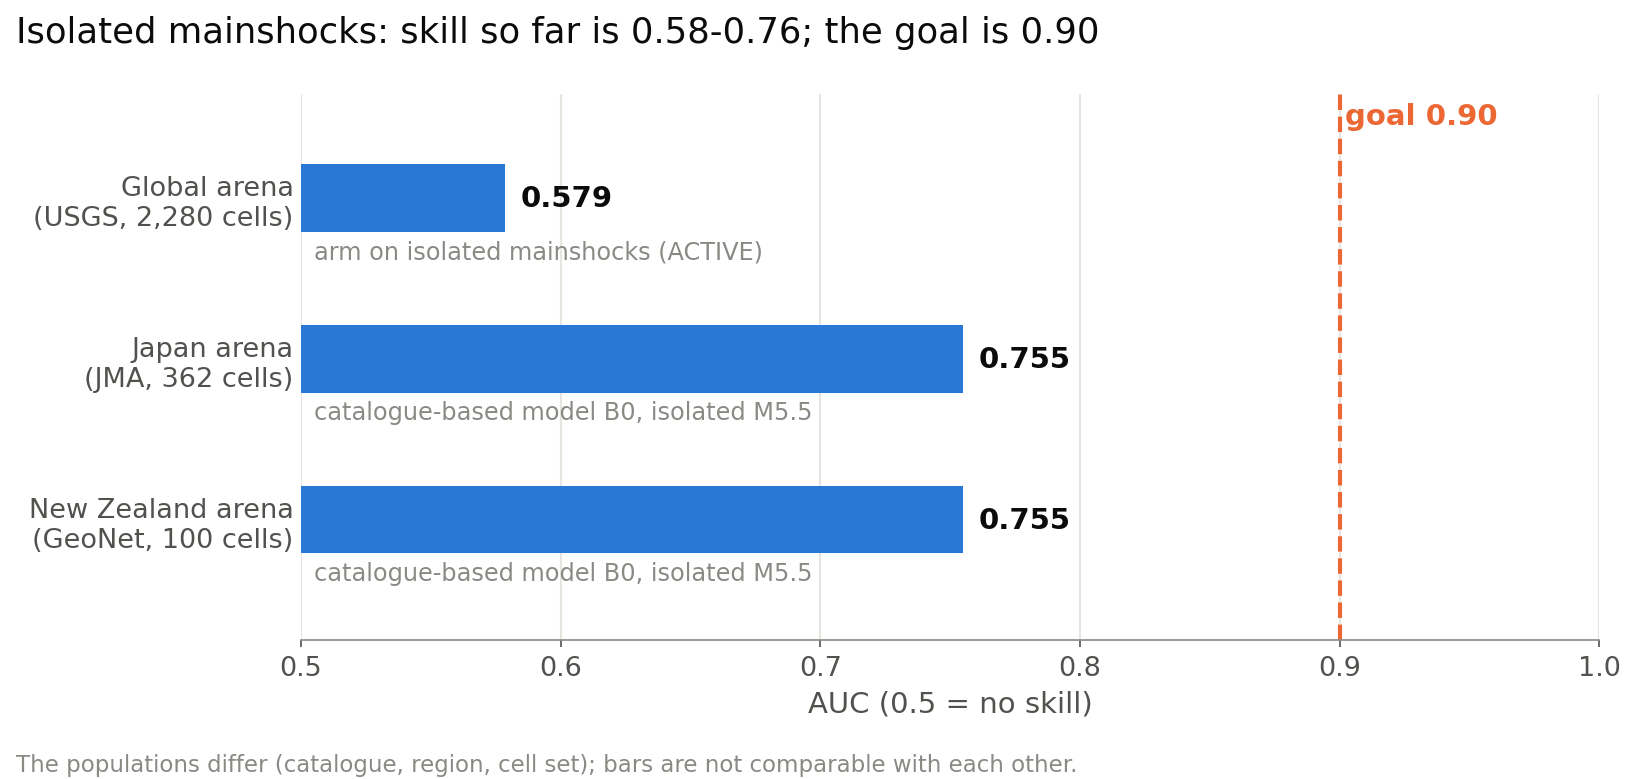
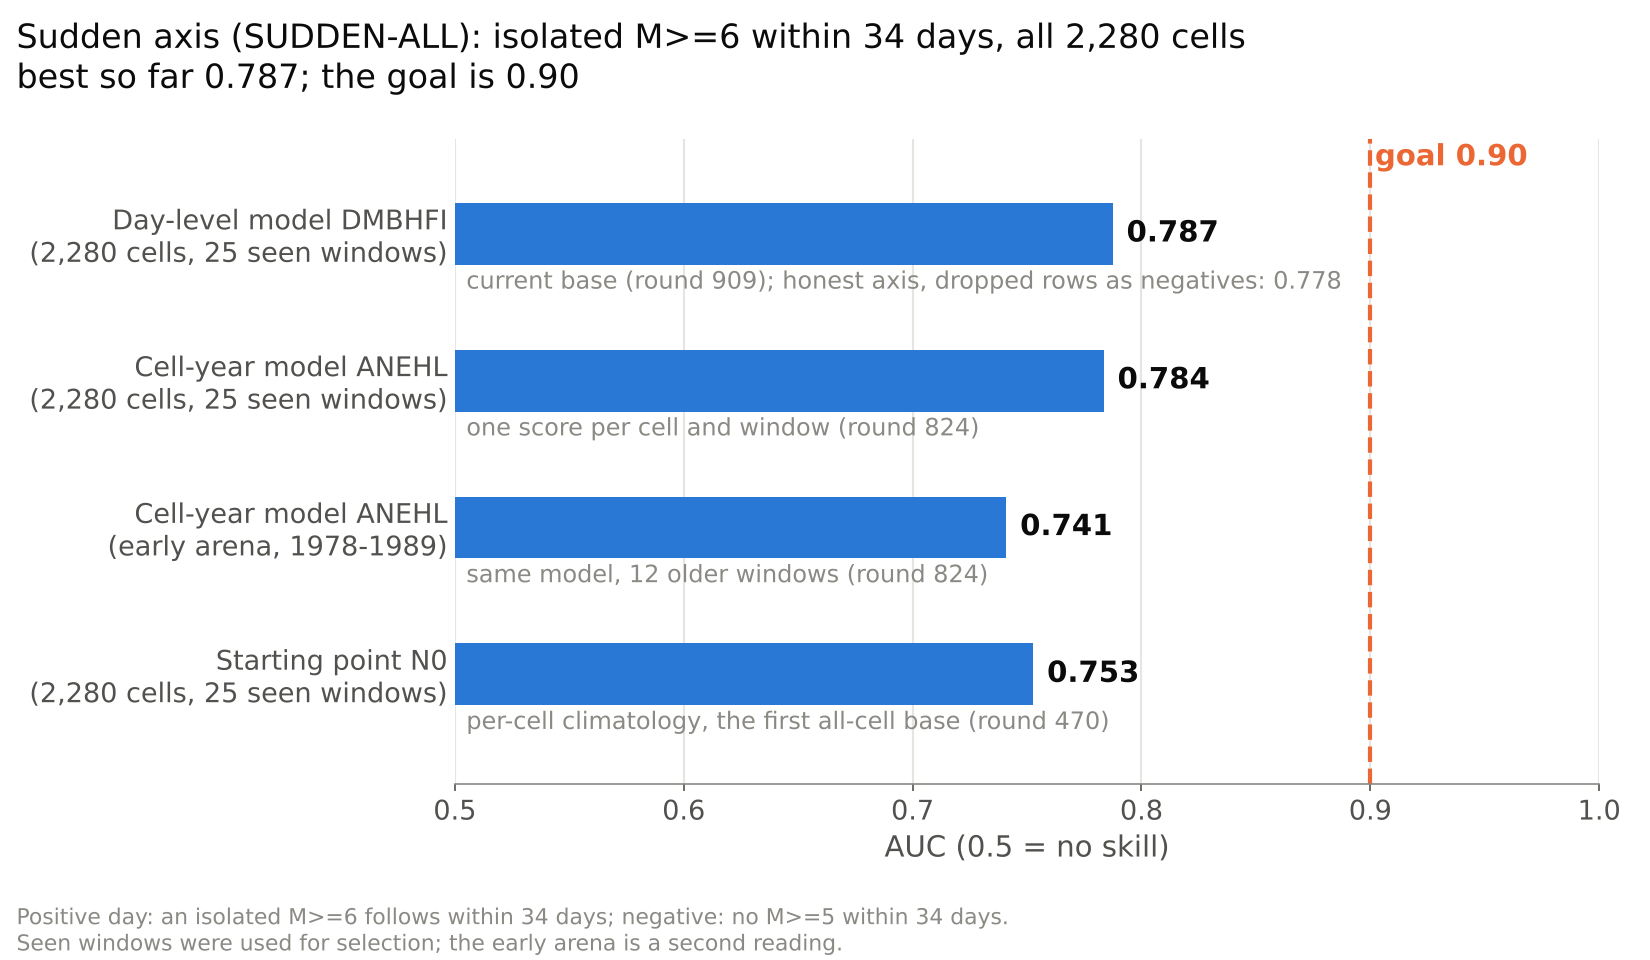
Sudden-axis figures: show the SUDDEN-ALL axis and the effect-size view of the non-catalogue pilots
Claude-Session: https://claude.ai/code/session_01Qxf5chyvwNeB8zBdWUwujx

Changed region(s): [[0.0, 0.1232, 0.9582, 1.0], [0.0, 0.0, 0.7727, 0.0924], [0.9582, 0.8318, 0.9891, 0.8626]]

diff --git a/research/sudden_axis/make_figs.py b/research/sudden_axis/make_figs.py
@@ -1,23 +1,24 @@
 # -*- coding: utf-8 -*-
-"""Figures for the sudden-earthquake (isolated mainshock) axis.
+"""Figures for the sudden-earthquake (isolated mainshock) axis, SUDDEN-ALL.
 
 Inputs (the only source of the numbers):
-  stand.csv    - where the axis stands per arena (figure 1)
-  results.csv  - one row per declared statistic of each pre-registered round (figure 2); rows are appended by
-                 add_round.py from the round's run log, never typed by hand
-The GitHub Actions workflow sudden-axis-figures.yml reruns this script whenever either file changes and commits the
+  stand.csv    - where the SUDDEN-ALL axis stands (figure 1); each value copied from a run log
+  pilots.csv   - one row per non-catalogue source group read since pilot 960 (figure 2): coverage c, the largest
+                 |partial S| and the end of its 95% interval, taken from the meta-analyses of the run logs
+  results.csv  - the earlier figure 2 (AUC of observation systems on isolated M5.5, rounds 293-); kept, not drawn
+The GitHub Actions workflow sudden-axis-figures.yml reruns this script whenever an input changes and commits the
 PNGs.  The script refuses malformed input (missing columns, values out of range, duplicate rows) instead of drawing.
 Run: python make_figs.py
 """
 import csv
 import os
+import textwrap
 
 import matplotlib
 
 matplotlib.use("Agg")
 import matplotlib.pyplot as plt
 from matplotlib.lines import Line2D
-from matplotlib.patches import Patch
 
 HERE = os.path.dirname(os.path.abspath(__file__))
 INK, INK2, MUTED, GRID = "#0b0b0b", "#52514e", "#8a8984", "#e6e5e0"
@@ -64,60 +65,96 @@ def fig1():
     ax.set_xlim(0.5, 1.0)
     ax.set_ylim(-0.75, len(rows) - 0.35)
     ax.set_xlabel("AUC (0.5 = no skill)", fontsize=14)
-    lo, hi = min(r["auc"] for r in rows), max(r["auc"] for r in rows)
-    fig.suptitle("Isolated mainshocks: skill so far is %.2f-%.2f; the goal is %.2f" % (lo, hi, GOAL),
-                 fontsize=17, x=0.01, ha="left", color=INK)
+    hi = max(r["auc"] for r in rows)
+    fig.suptitle("Sudden axis (SUDDEN-ALL): isolated M>=6 within 34 days, all 2,280 cells\n"
+                 "best so far %.3f; the goal is %.2f" % (hi, GOAL), fontsize=16, x=0.01, ha="left", color=INK)
     style(ax)
-    fig.text(0.01, 0.01, "The populations differ (catalogue, region, cell set); bars are not comparable with each other.",
-             fontsize=11, color=MUTED)
-    fig.tight_layout(rect=(0, 0.04, 1, 1))
+    fig.text(0.01, 0.01, "Positive day: an isolated M>=6 follows within 34 days; negative: no M>=5 within 34 days.\n"
+             "Seen windows were used for selection; the early arena is a second reading.", fontsize=10.5, color=MUTED)
+    fig.tight_layout(rect=(0, 0.07, 1, 1))
     fig.savefig(os.path.join(HERE, "fig1_where_we_stand.png"), dpi=150)
     plt.close(fig)
 
 
+DOMAINS = (  # fixed order = fixed colour (categorical slots 1-8)
+    ("atmosphere", "#2a78d6"),
+    ("ionosphere / space", "#eb6834"),
+    ("ocean surface", "#1baf7a"),
+    ("ocean interior", "#eda100"),
+    ("solid Earth (geodesy, gravity, rotation, tides, core field)", "#e87ba4"),
+    ("hydrology", "#008300"),
+    ("volcanic and gas", "#6250d6"),
+    ("seismic-waveform-derived", "#e34948"),
+)
+FORMS = {"day": "o", "cell-year": "s", "existence": "^"}
+# Direct labels for the widest-coverage and the largest-effect points: group -> (short name, x / y offset in points).
+# Groups not listed are not labelled; a listed group missing from pilots.csv is skipped.
+LABELS = {"1001B": ("wind / PW / soil T", 8, 0), "1008S": ("soil moisture", 8, 0), "1018U": ("UV aerosol", -8, 0),
+          "1015B": ("Argo", 8, 0), "1015A": ("Argo", 8, 0), "996": ("latent heat", 8, 0),
+          "1028A": ("ocean colour", 8, 0), "983": ("altimetry", -8, 0), "975": ("core field", 8, 10),
+          "972": ("GRACE", 8, 0), "974": ("Earth rotation", 8, -10)}
+GATE_GAIN, GAIN_K = 0.0006, 0.018  # pilot gate: predicted gain 0.018 c S^2 >= 0.0006
+
+
+def s_needed(c):
+    return (GATE_GAIN / (GAIN_K * c)) ** 0.5
+
+
 def fig2():
-    cols = ("round", "system", "statistic", "auc", "floor_sd_max", "max_floor_p", "positives", "verdict", "log")
-    rows = read("results.csv", cols)
+    cols = ("group", "round", "source", "domain", "form", "c", "s", "s_upper", "passes", "readings", "verdict", "log")
+    rows = read("pilots.csv", cols)
+    colour = dict(DOMAINS)
     seen = set()
     for r in rows:
-        r["round"], r["positives"] = int(r["round"]), int(r["positives"])
-        r["auc"], r["sd"], r["p"] = float(r["auc"]), float(r["floor_sd_max"]), float(r["max_floor_p"])
-        assert 0.0 < r["auc"] < 1.0 and 0.0 < r["sd"] < 0.2 and 0.0 < r["p"] <= 1.0 and r["positives"] > 0, r
-        key = (r["round"], r["statistic"])
-        assert key not in seen, ("duplicate row", key)
-        seen.add(key)
-    rows.sort(key=lambda r: r["round"])
-    nsys = len({r["system"] for r in rows})
-    n = len(rows)
-    fig, ax = plt.subplots(figsize=(12, 1.9 + 0.48 * n))
-    ys = list(range(n))[::-1]
-    lo = min(min(r["auc"], 0.5 - 1.96 * r["sd"]) for r in rows) - 0.02
-    hi = max(max(r["auc"], 0.5 + 1.96 * r["sd"]) for r in rows) + 0.06
-    for y, r in zip(ys, rows):
-        ax.add_patch(plt.Rectangle((0.5 - 1.96 * r["sd"], y - 0.32), 2 * 1.96 * r["sd"], 0.64, color=GRAY_BAND, lw=0))
-        ax.plot([r["auc"]], [y], "o", ms=10, color=BLUE, mec="white", mew=2, zorder=3)
-        ax.text(hi - 0.008, y, "%.3f" % r["auc"], va="center", ha="right", fontsize=12.5, color=INK)
-    ax.set_yticks(ys, ["%s  -  %s\n(round %d, %d positives)" % (r["system"], r["statistic"], r["round"], r["positives"])
-                       for r in rows], fontsize=11.5)
-    ax.axvline(0.5, color=MUTED, lw=1.2)
-    ax.set_xlim(lo, hi)
-    ax.set_ylim(-0.8, n - 0.2)
-    ax.set_xlabel("AUC on isolated M5.5 in cells without precedent (Japan + New Zealand pooled)", fontsize=14)
-    outside = [r for r in rows if abs(r["auc"] - 0.5) > 1.96 * r["sd"]]
-    supported = [r for r in rows if r["verdict"].startswith("SUPPORTED")]
-    if not outside:
-        head = "%d catalogue-free observation systems: every result sits inside the chance band" % nsys
-    else:
-        head = "%d catalogue-free observation systems: %d of %d results outside the chance band" % (nsys, len(outside), n)
-    fig.suptitle(head, fontsize=17, x=0.01, ha="left", color=INK)
-    style(ax)
-    ax.legend(handles=[Line2D([], [], marker="o", ls="", ms=10, color=BLUE, mec="white", mew=2, label="observed AUC"),
-                       Patch(color=GRAY_BAND, label="chance band: 0.5 +/- 1.96 x widest permutation-floor sd")],
-              loc="lower left", fontsize=12, frameon=False, bbox_to_anchor=(0.0, -0.17), ncol=2)
-    foot = ("Each statistic was declared, with its direction, before any label was read; " +
-            ("none was supported (smallest max floor p %.2f)." % min(r["p"] for r in rows) if not supported
-             else "%d supported: %s." % (len(supported), ", ".join("round %d %s" % (r["round"], r["statistic"]) for r in supported))))
-    fig.text(0.01, 0.005, foot, fontsize=11, color=MUTED)
+        r["c"], r["s"], r["U"] = float(r["c"]), float(r["s"]), float(r["s_upper"])
+        r["passes"], r["readings"], r["round"] = int(r["passes"]), int(r["readings"]), int(r["round"])
+        assert 0.0 < r["c"] <= 1.0 and abs(r["s"]) < 3.0 and abs(r["s"]) <= r["U"] < 3.0, r
+        assert 0 <= r["passes"] <= r["readings"] and r["readings"] > 0, r
+        assert r["domain"] in colour and r["form"] in FORMS and r["verdict"] and r["log"].endswith(".log"), r
+        assert r["group"] not in seen, ("duplicate row", r["group"])
+        seen.add(r["group"])
+    at_gate = [r for r in rows if abs(r["s"]) >= s_needed(r["c"])]
+    fig, ax = plt.subplots(figsize=(12, 7.6))
+    cs = [0.02 + 0.98 * k / 400 for k in range(401)]
+    ax.fill_between(cs, [s_needed(c) for c in cs], 1.0, color="#f3f2ee", lw=0, zorder=0)
+    ax.plot(cs, [s_needed(c) for c in cs], color=INK, lw=2, ls="--", zorder=1)
+    ax.text(0.60, s_needed(0.60) + 0.03, "gate: 0.018 c S² = 0.0006\n(S %.3f at c = 1)" % s_needed(1.0),
+            color=INK, fontsize=12, ha="left", va="bottom")
+    for r in sorted(rows, key=lambda r: -r["U"]):
+        col = colour[r["domain"]]
+        ax.plot([r["c"], r["c"]], [abs(r["s"]), r["U"]], color=col, lw=1.6, alpha=0.75, zorder=2)
+        ax.plot([r["c"] - 0.006, r["c"] + 0.006], [r["U"], r["U"]], color=col, lw=1.6, alpha=0.75, zorder=2)
+        ax.plot([r["c"]], [abs(r["s"])], FORMS[r["form"]], ms=9, color=col, mec="white", mew=1.5, zorder=3)
+    for r in rows:  # selective direct labels
+        if r["group"] in LABELS:
+            name, dx, dy = LABELS[r["group"]]
+            ax.annotate("%s (%s)" % (name, r["group"]), (r["c"], abs(r["s"])), xytext=(dx, dy), textcoords="offset points",
+                        fontsize=10.5, color=INK2, va="center", ha="left" if dx >= 0 else "right",
+                        bbox=dict(fc="white", ec="none", alpha=0.8, pad=0.5), zorder=4)
+    ax.set_xlim(0, 1.17)
+    ax.set_xticks([0, 0.2, 0.4, 0.6, 0.8, 1.0])
+    ax.set_ylim(0, 0.8)
+    ax.set_xlabel("coverage c (share of seen positive rows the source reaches)", fontsize=13)
+    ax.set_ylabel("largest |partial S| (sd), whisker to the 95% interval end", fontsize=13)
+    ax.grid(color=GRID, lw=1)
+    ax.set_axisbelow(True)
+    for s in ("top", "right"):
+        ax.spines[s].set_visible(False)
+    head = ("Non-catalogue sources read since pilot 960 (%d groups): %s" %
+            (len(rows), "none reaches the gate" if not at_gate else "%d at the gate" % len(at_gate)))
+    fig.suptitle(head, fontsize=16, x=0.01, ha="left", color=INK)
+    dom_used = [d for d, _ in DOMAINS if any(r["domain"] == d for r in rows)]
+    h1 = [Line2D([], [], marker="o", ls="", ms=9, color=colour[d], label=textwrap.fill(d, 32)) for d in dom_used]
+    h2 = [Line2D([], [], marker=m, ls="", ms=9, color=MUTED, label=f) for f, m in FORMS.items()]
+    leg = ax.legend(handles=h1, loc="upper right", fontsize=10.5, frameon=False, title="domain", title_fontsize=11,
+                    alignment="left")
+    ax.add_artist(leg)
+    ax.legend(handles=h2, loc="upper left", bbox_to_anchor=(0.45, 1.0), fontsize=10.5, frameon=False, title="form",
+              title_fontsize=11, alignment="left")
+    fig.text(0.01, 0.01, "Points above the dashed curve would pass the pilot gate. Readings passing their nulls: %d of %d. "
+             "Values from the meta-analyses of the run logs." % (sum(r["passes"] for r in rows),
+                                                                  sum(r["readings"] for r in rows)),
+             fontsize=10.5, color=MUTED)
     fig.tight_layout(rect=(0, 0.03, 1, 1))
     fig.savefig(os.path.join(HERE, "fig2_observation_systems.png"), dpi=150)
     plt.close(fig)

diff --git a/README.md b/README.md
@@ -17,10 +17,13 @@ Real-time monitoring dashboard for Japan's geophysical activity — earthquakes,
 ## Sudden-earthquake axis at a glance
 
 The main research question is whether isolated mainshocks (earthquakes with no foreshock sequence and no recent
-precedent in their cell) can be forecast with genuine skill. Details and every number are in
+precedent in their cell) can be forecast with genuine skill. The main yardstick is the SUDDEN-ALL axis: days of all
+2,280 cells on which an isolated M6 follows within 34 days, against quiet days. Figure 1 shows where the models stand
+on it; figure 2 shows each non-catalogue source read since pilot 960 as effect size against coverage, with the gate
+curve a source must cross. Figure 1's values are copied from the run logs and figure 2's rows from the meta-analyses
+of the run logs; details and every number are in
 [RESEARCH-LOG.md](RESEARCH-LOG.md). The figures are redrawn automatically (GitHub Actions) whenever
-[research/sudden_axis/results.csv](research/sudden_axis/results.csv) changes; each row is appended from a
-pre-registered run log by [add_round.py](research/sudden_axis/add_round.py).
+[stand.csv](research/sudden_axis/stand.csv) or [pilots.csv](research/sudden_axis/pilots.csv) changes.
 
 ![Where the sudden axis stands](research/sudden_axis/fig1_where_we_stand.png)
 
